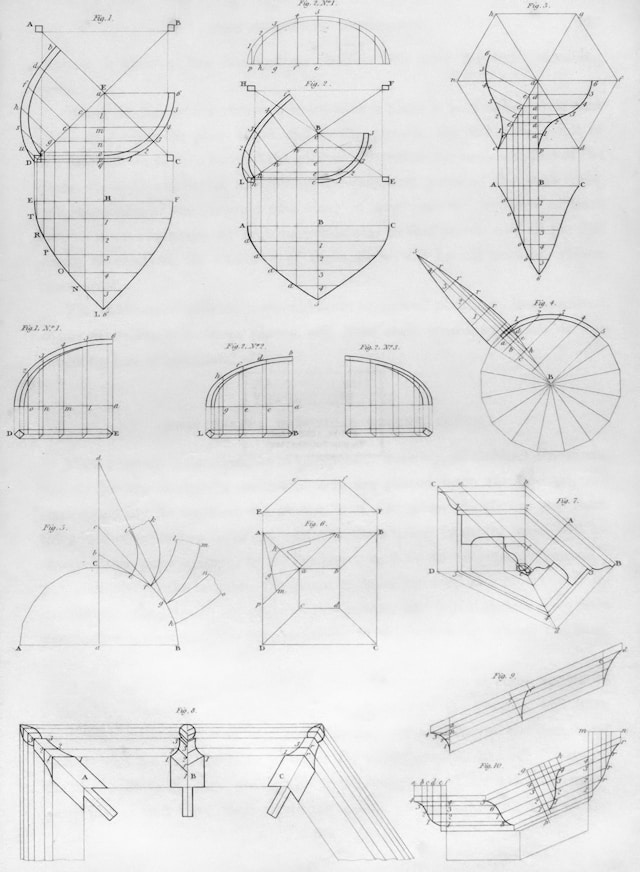
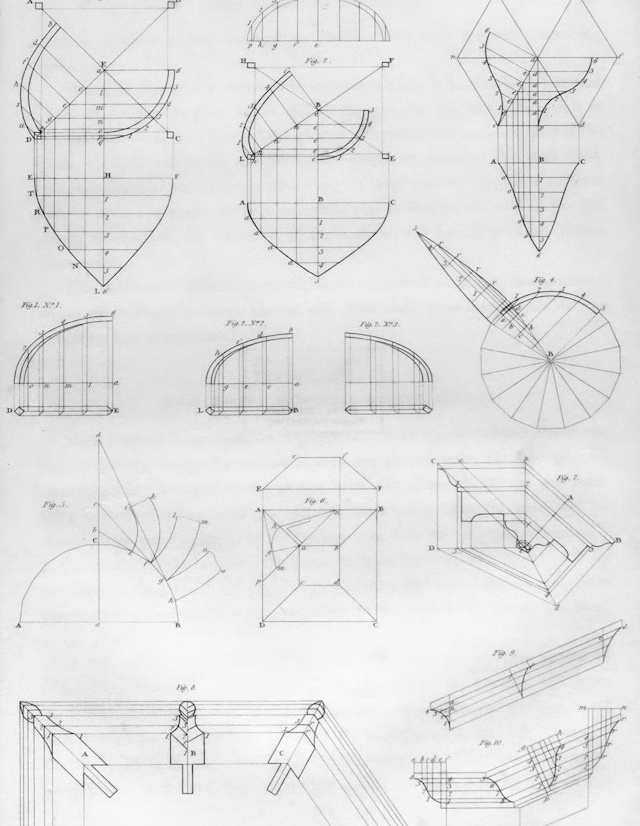
Fix MIT project title and crop patents image
- Changed "Datascience" to "Data Science" in MIT Capstone title and heading
- Cropped patent-drawings.jpg from 640x872 to 640x826 to match height of other project images

🤖 Generated with [Claude Code](https://claude.com/claude-code)

diff --git a/_projects/4_mit_capstone.md b/_projects/4_mit_capstone.md
@@ -1,13 +1,13 @@
 ---
 layout: page
-title: MIT Datascience Capstone
+title: MIT Data Science Capstone
 description: MIT Data Science capstone project
 img: assets/img/joshua-stamp.jpg
 importance: 4
 category: main
 ---
 
-## MIT Datascience Capstone
+## MIT Data Science Capstone
 
 ### Project Documents
 
